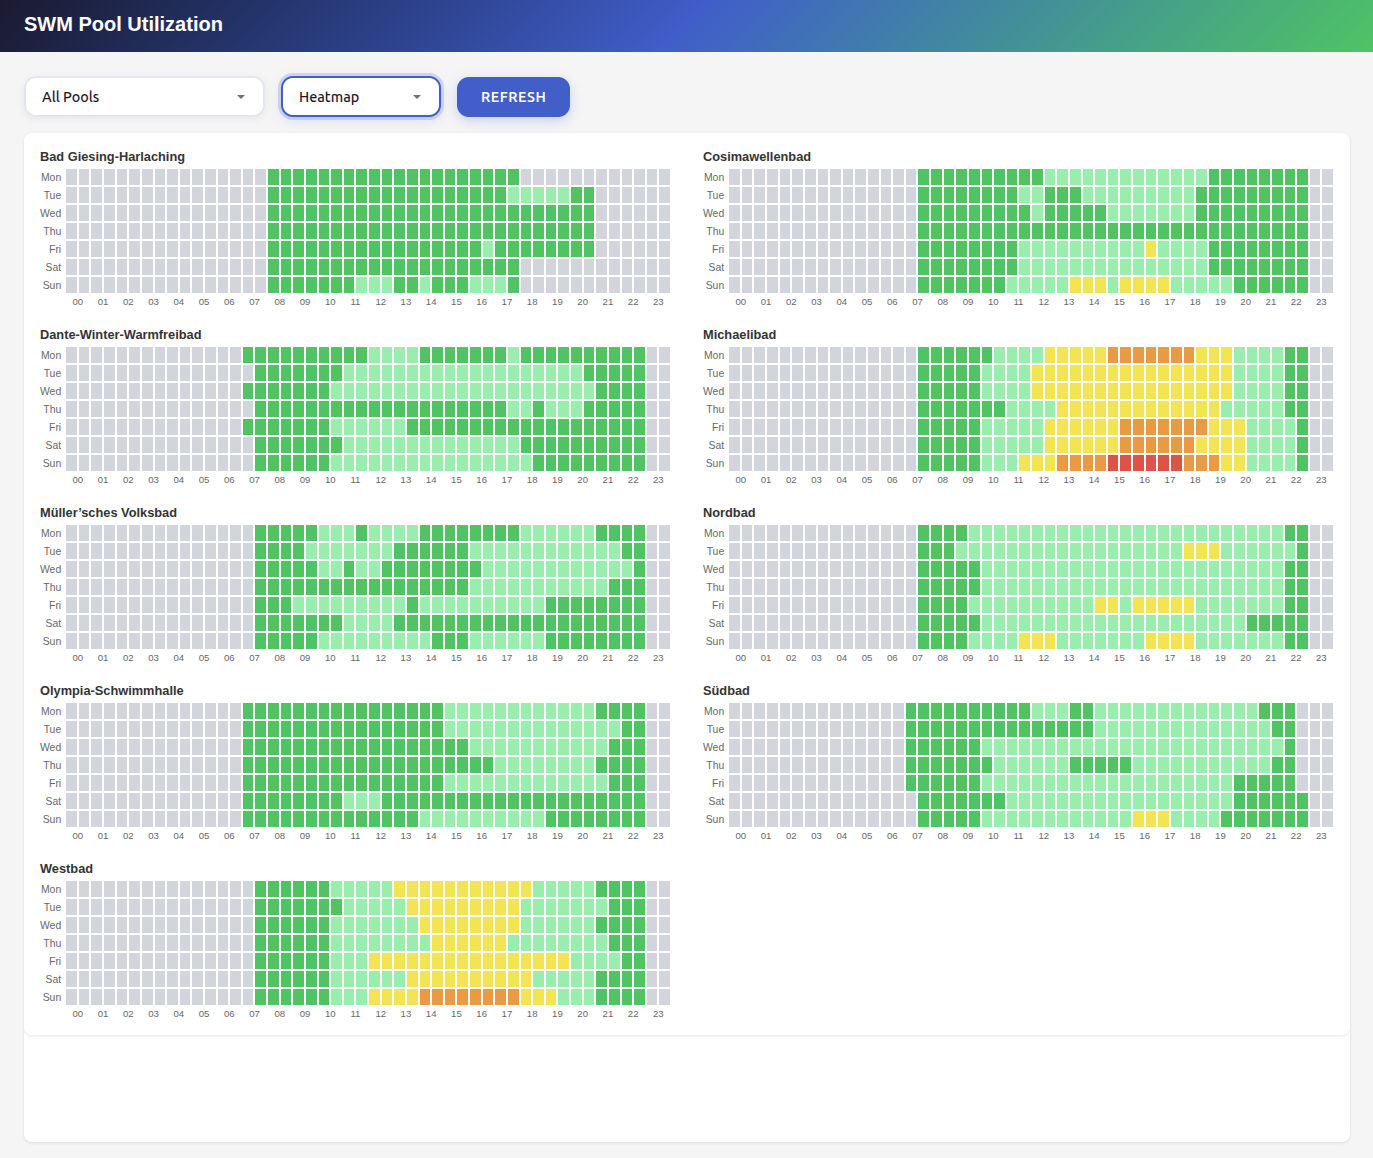
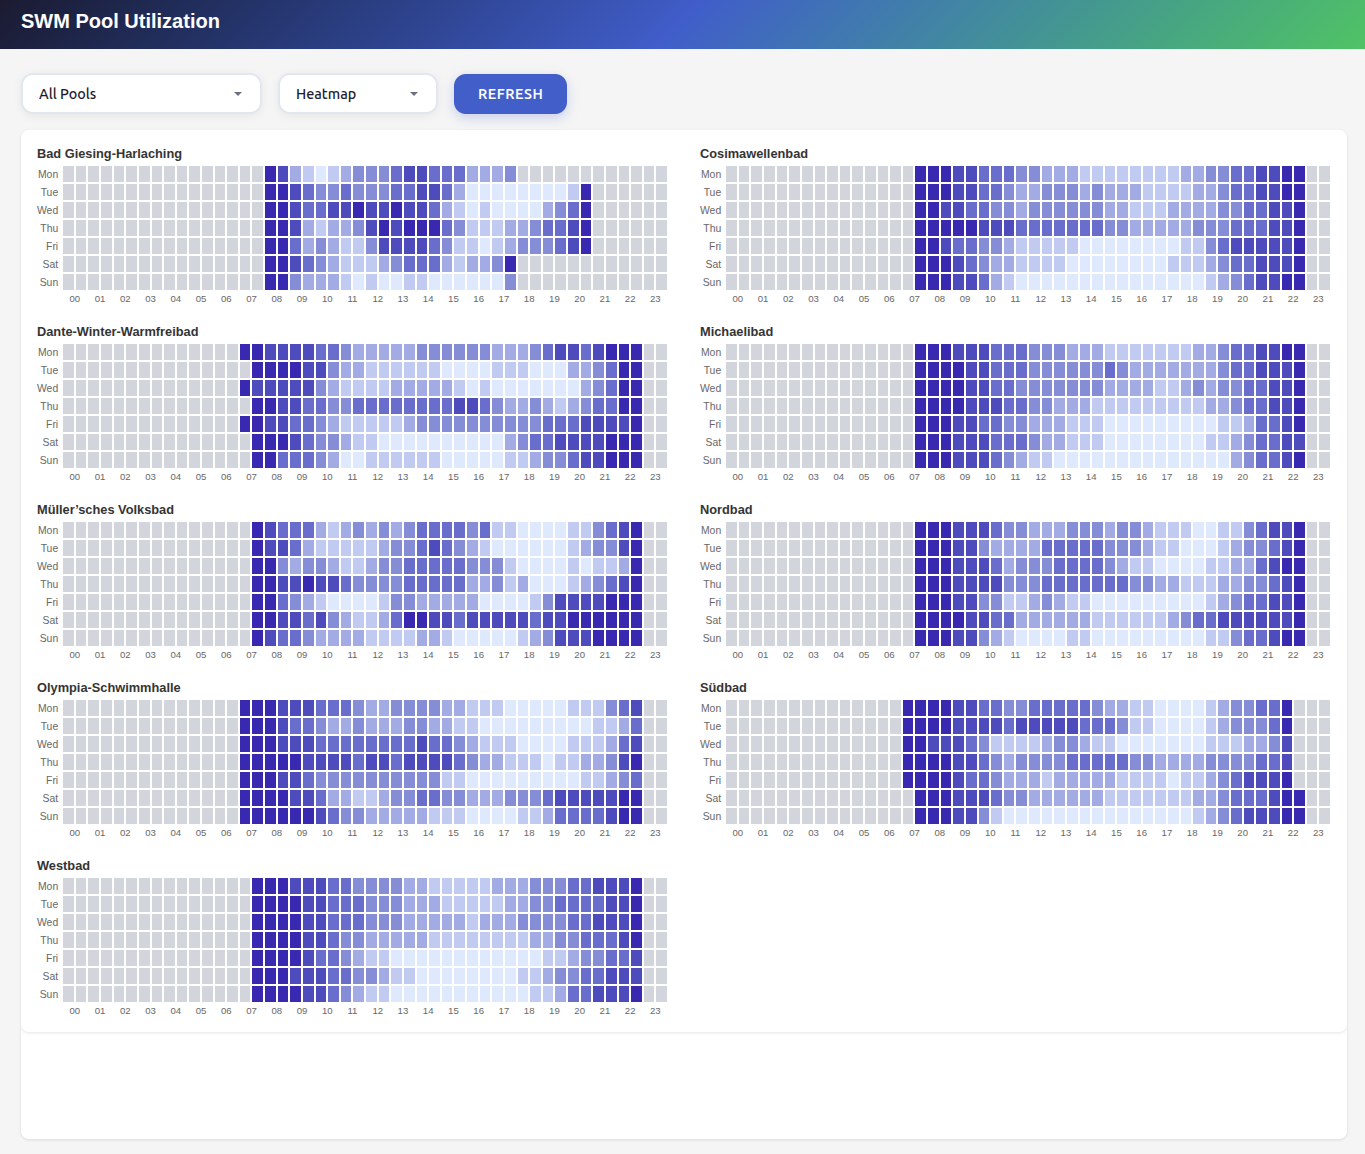
blueish heatmap

diff --git a/frontend/src/components/HeatmapCard.vue b/frontend/src/components/HeatmapCard.vue
@@ -15,6 +15,7 @@
                   :key="slotIdx"
                   class="heatmap-cell"
                   :class="getCellClass(poolData, dayIdx - 1, slotIdx - 1)"
+                  :style="getCellStyle(poolData, dayIdx - 1, slotIdx - 1)"
                   @mouseenter="showTooltip($event, poolData, dayIdx - 1, slotIdx - 1)"
                   @mouseleave="hideTooltip"
                 ></div>
@@ -28,15 +29,19 @@
       </div>
     </div>
     <div class="heatmap-legend">
-      <span class="legend-label">Low crowds</span>
+      <span class="legend-label">Empty</span>
       <div class="legend-scale">
-        <div class="legend-cell level-0"></div>
-        <div class="legend-cell level-1"></div>
-        <div class="legend-cell level-2"></div>
-        <div class="legend-cell level-3"></div>
-        <div class="legend-cell level-4"></div>
+        <div
+          v-for="level in 7"
+          :key="level"
+          class="legend-cell"
+          :style="{ background: busyColor((level - 1) / 6) }"
+        ></div>
       </div>
-      <span class="legend-label">High crowds</span>
+      <span class="legend-label">Full</span>
+      <span class="legend-separator">|</span>
+      <div class="legend-cell no-data"></div>
+      <span class="legend-label">No data</span>
       <span class="legend-separator">|</span>
       <div class="legend-cell closed"></div>
       <span class="legend-label">Closed</span>
@@ -49,6 +54,7 @@
 
 <script setup>
 import { computed, ref } from 'vue'
+import POOL_SCHEDULES from '../poolSchedules.json'
 
 const props = defineProps({
   data: { type: Array, default: () => [] },
@@ -59,42 +65,9 @@ const tooltip = ref({ visible: false, x: 0, y: 0, text: '' })
 
 const days = ['Mon', 'Tue', 'Wed', 'Thu', 'Fri', 'Sat', 'Sun']
 
-// ---------------------------------------------------------------------------
-// Official SWM opening hours  (source: swm.de/baeder/hallenbaeder-muenchen)
-//
 // Slots 0-47 represent 30-min intervals: slot 0 = 00:00, slot 14 = 07:00, …
-// Each day entry is [firstOpenSlot, firstClosedSlot).
-// Day indices: 0=Mon … 6=Sun.
-// ---------------------------------------------------------------------------
-const POOL_SCHEDULES = [
-  // Bad Giesing-Harlaching — Sa-Mo: 8-18, Di-Fr: 8-21
-  { match: ['giesing'],
-    days: [[16,36],[16,42],[16,42],[16,42],[16,42],[16,36],[16,36]] },
-  // Cosimawellenbad — Mo-So: 7:30-23
-  { match: ['cosima'],
-    days: [[15,46],[15,46],[15,46],[15,46],[15,46],[15,46],[15,46]] },
-  // Dantebad — Mo,Mi,Fr: 7-23; Di,Do,Sa,So: 7:30-23
-  { match: ['dante'],
-    days: [[14,46],[15,46],[14,46],[15,46],[14,46],[15,46],[15,46]] },
-  // Michaelibad — Mo-So: 7:30-23
-  { match: ['michaeli'],
-    days: [[15,46],[15,46],[15,46],[15,46],[15,46],[15,46],[15,46]] },
-  // Müller'sches Volksbad — Mo-So: 7:30-23
-  { match: ['volksbad', 'müller', 'muller'],
-    days: [[15,46],[15,46],[15,46],[15,46],[15,46],[15,46],[15,46]] },
-  // Nordbad — Mo-So: 7:30-23
-  { match: ['nordbad'],
-    days: [[15,46],[15,46],[15,46],[15,46],[15,46],[15,46],[15,46]] },
-  // Olympia-Schwimmhalle — Mo-So: 7-23
-  { match: ['olympia'],
-    days: [[14,46],[14,46],[14,46],[14,46],[14,46],[14,46],[14,46]] },
-  // Südbad — Mo-Fr: 7-22:30; Sa-So: 7:30-23
-  { match: ['südbad', 'suedbad', 'süd'],
-    days: [[14,45],[14,45],[14,45],[14,45],[14,45],[15,46],[15,46]] },
-  // Westbad — Mo-So: 7:30-23
-  { match: ['westbad'],
-    days: [[15,46],[15,46],[15,46],[15,46],[15,46],[15,46],[15,46]] },
-]
+// Each day entry is [firstOpenSlot, firstClosedSlot). Day indices: 0=Mon … 6=Sun.
+// Schedules are defined in src/poolSchedules.json.
 
 // Cache schedule look-ups per pool name so we only search once.
 const scheduleCache = {}
@@ -154,25 +127,77 @@ const poolDataList = computed(() => {
 
   return Object.entries(byPool)
     .sort(([a], [b]) => a.localeCompare(b))
-    .map(([pool, grid]) => ({ pool, grid }))
+    .map(([pool, grid]) => ({ pool, grid, breaks: computeBreaks(pool, grid) }))
 })
 
-function getCellClass(poolData, dayIdx, slotIdx) {
-  // 1. Official schedule: outside opening hours → closed
-  if (isScheduleClosed(poolData.pool, dayIdx, slotIdx)) return 'closed'
+// Compute 6 septile breakpoints from the valid open cells of a pool so that
+// each of the 7 color bins contains an equal share of the actual data.
+// Returns null if there are fewer than 7 valid cells (falls back to uniform).
+function computeBreaks(poolName, grid) {
+  const values = []
+  for (let d = 0; d < 7; d++) {
+    for (let s = 0; s < 48; s++) {
+      if (isScheduleClosed(poolName, d, s)) continue
+      const cell = grid[d][s]
+      if (!cell || cell.samples < 5) continue
+      if (cell.closedFraction >= 0.9) continue
+      values.push(100 - cell.mean)
+    }
+  }
+  if (values.length < 7) return null
+  values.sort((a, b) => a - b)
+  const breaks = []
+  for (let i = 1; i <= 6; i++) {
+    const pos = (i / 7) * (values.length - 1)
+    const lo  = Math.floor(pos)
+    const hi  = Math.ceil(pos)
+    breaks.push(values[lo] + (pos - lo) * (values[hi] - values[lo]))
+  }
+  return breaks
+}
 
+// Maps t ∈ [0, 1] linearly from saturated blue to light blue.
+//   t = 0 → #1937b4 (rgb 25,  55,  180) — empty pool
+//   t = 1 → #dbeafe (rgb 219, 234, 254) — full / busy pool
+// Light-blue top anchor keeps cell borders (#fff) visible against busy cells.
+// No power curve needed: the per-pool septile binning already distributes the
+// 7 discrete levels evenly across the actual data range.
+function busyColor(t) {
+  const r = Math.round(25  + t * 194)
+  const g = Math.round(55  + t * 179)
+  const b = Math.round(180 + t * 74)
+  return `rgb(${r},${g},${b})`
+}
+
+function getCellClass(poolData, dayIdx, slotIdx) {
+  if (isScheduleClosed(poolData.pool, dayIdx, slotIdx)) return 'closed'
   const cell = poolData.grid[dayIdx][slotIdx]
   if (!cell || cell.samples < 5) return 'no-data'
-
-  // 2. Statistical detection: most samples at 100% → closed (holidays, etc.)
   if (cell.closedFraction >= 0.9) return 'closed'
+  return null  // color applied via getCellStyle
+}
 
+// Returns the inline background style for busy (open, data-populated) cells.
+// util = 100 − cell.mean converts stored remaining-capacity% to usage%:
+//   util = 0  → empty  → dark blue
+//   util = 100 → full  → white
+// Level is determined by per-pool septile breakpoints so each of the 7 bins
+// contains an equal share of the pool's data (falls back to uniform 14pp bins
+// if the pool has fewer than 7 valid cells).
+function getCellStyle(poolData, dayIdx, slotIdx) {
+  if (isScheduleClosed(poolData.pool, dayIdx, slotIdx)) return null
+  const cell = poolData.grid[dayIdx][slotIdx]
+  if (!cell || cell.samples < 5) return null
+  if (cell.closedFraction >= 0.9) return null
   const util = 100 - cell.mean
-  if (util < 20) return 'level-0'
-  if (util < 40) return 'level-1'
-  if (util < 60) return 'level-2'
-  if (util < 80) return 'level-3'
-  return 'level-4'
+  let level
+  if (poolData.breaks) {
+    level = poolData.breaks.findIndex(bp => util <= bp)
+    if (level === -1) level = 6
+  } else {
+    level = Math.min(6, Math.floor(util * 7 / 100))
+  }
+  return { background: busyColor(level / 6) }
 }
 
 function formatTime(slotIdx) {
@@ -286,13 +311,8 @@ function hideTooltip() {
   min-width: 0;
 }
 
-.heatmap-cell.level-0 { background: #22c55e; }
-.heatmap-cell.level-1 { background: #86efac; }
-.heatmap-cell.level-2 { background: #fde047; }
-.heatmap-cell.level-3 { background: #fb923c; }
-.heatmap-cell.level-4 { background: #ef4444; }
 .heatmap-cell.no-data { background: #e5e7eb; }
-.heatmap-cell.closed { background: #d1d5db; }
+.heatmap-cell.closed  { background: #d1d5db; }
 
 .x-axis {
   display: flex;
@@ -322,20 +342,16 @@ function hideTooltip() {
 
 .legend-scale {
   display: flex;
-  gap: 2px;
+  gap: 1px;
 }
 
 .legend-cell {
-  width: 24px;
+  width: 12px;
   height: 12px;
-  border-radius: 2px;
+  border-radius: 1px;
 }
 
-.legend-cell.level-0 { background: #22c55e; }
-.legend-cell.level-1 { background: #86efac; }
-.legend-cell.level-2 { background: #fde047; }
-.legend-cell.level-3 { background: #fb923c; }
-.legend-cell.level-4 { background: #ef4444; }
+.legend-cell.no-data { background: #e5e7eb; }
 .legend-cell.closed  { background: #d1d5db; }
 
 .legend-separator {
